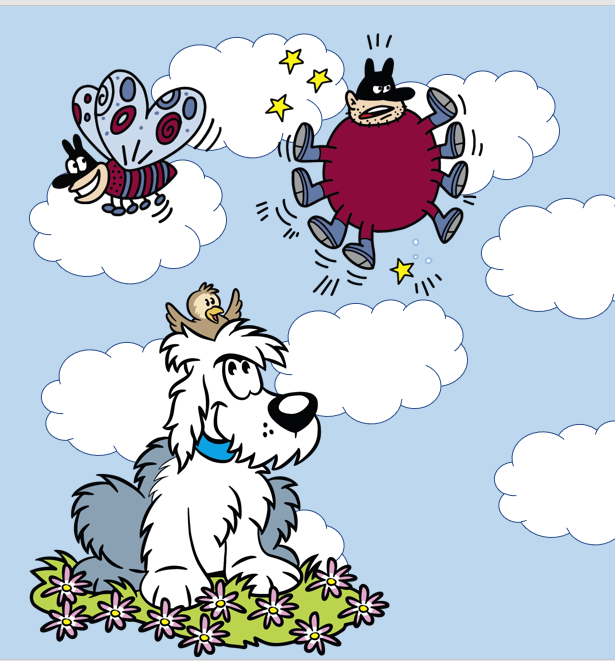
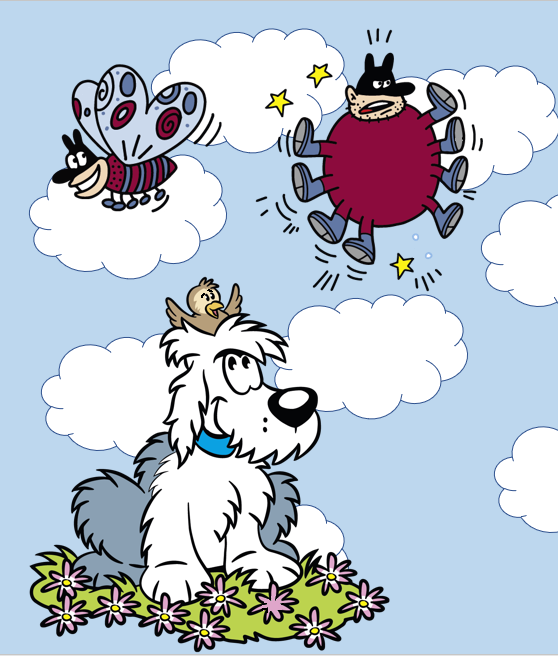
img
Now two images are displayed.
Both have mistake areas.
Coordinates of mistake areas are roughly adjusted

diff --git a/index.js b/index.js
@@ -1,18 +1,28 @@
-//All mistakes from the img
 var mistakes = [
         { 'x': 145, 'y': 130 }, // Biene, Punkt, Flügel        
         { 'x': 166, 'y': 213 }, // Biene, Linie, unter Bein        
         { 'x': 277, 'y': 67 } // Stern      
     ];
+	
+// Füge zwei Felder, wo Bilder gespeichert werden
+$("#main_game_field").append("<div class='div_with_img' id ='div_origin_img'></div>");
+$("#main_game_field").append("<div class='div_with_img' id ='div_clone_img'></div>");
 
-$("#main_game_field").append(
-	"<img class='.play_img' src='assets/origin.png' usemap='#map' />" + 
-	"<map name='map'></map>"
+// Füge zwei Bilder in die Felder hinzu, definiere Maps
+$("#div_origin_img").append(
+	"<img class='.play_img' id='img_orig' src='assets/origin.png' usemap='#map_origin' >" + 
+	"<map name='map_origin'></map>"
 	);
+$("#div_clone_img").append(
+	"<img class='play_img' src='assets/clone.png' usemap='#map_clone' />" + 
+	"<map name='map_clone'></map>"
+	);
+	
 
+// Koordinaten müssen skalierbar sein
 mistakes.forEach(element => $("map").append(
 	"<area class='mistake_area' shape='circle' "+
-	"coords='" + element['x'] + "," + element['y'] + "," + 15 + "' " +
+	"coords='" + (element['x'] * 400 / 558 )+ "," + (element['y'] * 500 / 656 )+ "," + 15 + "' " +
 	"href='#' />" ));
 	
 
@@ -21,5 +31,3 @@ $(".mistake_area").on("click", function(e){
 
 	console.log("click");	
 });
-
-

diff --git a/index.html b/index.html
@@ -2,16 +2,13 @@
 <html>
 <head>
     <meta charset="UTF-8" />
-	
 	<link rel="stylesheet" type="text/css" href="main.css">
-	
 	<script type="text/javascript" src="jquery-3.4.1.js"></script>	
 	
     <title>Ich sehe...</title>
-
 </head>
 <body>
-	<div id ="main_game_field"></div>
+	<div class='main_game_field' id ='main_game_field'></div>
 	
 	<script type="text/javascript" src="index.js"></script>
 </body>

diff --git a/main.css b/main.css
@@ -1,3 +1,16 @@
+.div_with_img {
+    margin-right:10px;
+    display:inline;
+}
+
+img {
+	width:400px; 
+	height:500px; 
+
+	object-fit: fill;
+}
+
+  
 area:hover {
 	border: solid
 }
